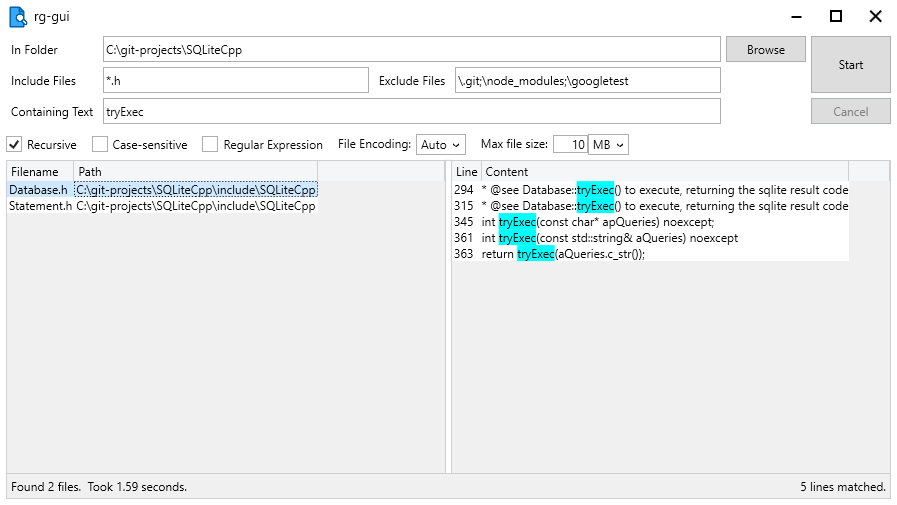
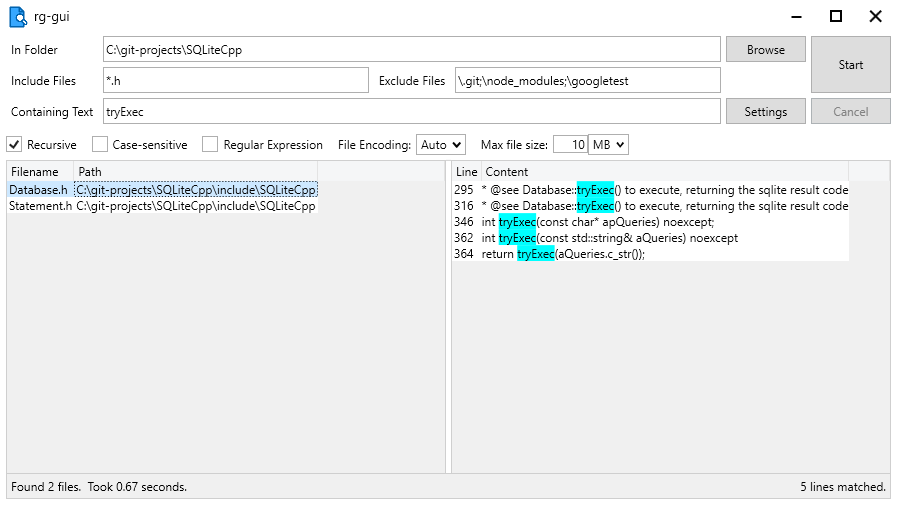
Remove RipGrepPath from configuration
rg.exe is now bundled in release .zip file.  Remove references to
editing configuration file; document the new settings window.  Update
screenshots.

diff --git a/rg-gui/MainWindow.xaml.cs b/rg-gui/MainWindow.xaml.cs
@@ -122,7 +122,7 @@ namespace rg_gui
                 cmbEncoding.SelectedIndex = 0;
             }
 
-            txtMaxFileSize.Text = (int.TryParse(config.AppSettings.Settings["MaxFileSize"].Value, out var maxFileSize) ? maxFileSize : DEFAULT_MAXFILESIZE).ToString();
+            txtMaxFileSize.Text = (int.TryParse(config.AppSettings.Settings["MaxFileSize"]?.Value, out var maxFileSize) ? maxFileSize : DEFAULT_MAXFILESIZE).ToString();
             var maxFileSizeUnit = cmbFileSizeUnit.FindName(config.AppSettings.Settings["MaxFileSizeUnit"]?.Value ?? DEFAULT_MAXFILESIZEUNIT);
             if (maxFileSizeUnit != null)
             {
@@ -136,7 +136,14 @@ namespace rg_gui
             m_currentTheme = Enum.TryParse<ThemeType>(config.AppSettings.Settings["Theme"]?.Value, out var themeName) ? themeName : DEFAULT_THEME;
             ThemesController.SetTheme(m_currentTheme);
 
-            m_ripGrepWrapper = new RipGrepWrapper(config.AppSettings.Settings["RipGrepPath"]?.Value ?? throw new Exception("RipGrepPath not set."));
+            var ripgrepPath = Path.Combine(Path.GetDirectoryName(Environment.ProcessPath) ?? string.Empty, "rg.exe");
+            if (!File.Exists(ripgrepPath))
+            {
+                MessageBox.Show("rg.exe not found in installation path.", "Error");
+                throw new Exception("rg.exe not found in installation path.");
+            }
+
+            m_ripGrepWrapper = new RipGrepWrapper(ripgrepPath);
 
             m_maxSearchTerms = int.TryParse(config.AppSettings.Settings["MaxSearchTerms"]?.Value, out var maxSearchTerms) ? maxSearchTerms : DEFAULT_MAXSEARCHTERMS;
 

diff --git a/README.md b/README.md
@@ -7,17 +7,11 @@
 
 ## Installation
 
-RipGrep must be installed on your computer.  You can download it from [here](https://github.com/BurntSushi/ripgrep/releases).  Currently, version 13.0.0 is supported.  Unzip it to a convenient location such as `C:\ripgrep-13.0.0-x86_64-pc-windows-msvc`.
-
 Download the latest release of rg-gui from the [Releases page](https://github.com/kcowolf/rg-gui/releases).  Unzip it to a convenient location such as `C:\rg-gui`.
 
-In rg-gui.dll.config, specify the location of the RipGrep executable.
+The RipGrep executable `rg.exe` is included in the rg-gui release.  It needs to be in the same folder as `rg-gui.exe`.
 
-```xml
-<add key="RipGrepPath" value="C:\ripgrep-13.0.0-x86_64-pc-windows-msvc\rg.exe"/>
-```
-
-The **.NET Desktop Runtime 6** must also be installed installed.  You can download it from here: https://dotnet.microsoft.com/en-us/download/dotnet/6.0
+The **.NET Desktop Runtime 6** must also be installed.  You can download it from here: https://dotnet.microsoft.com/en-us/download/dotnet/6.0
 
 ## Usage
 
@@ -27,24 +21,19 @@ Include Files and Exclude Files can be path or file names and can include wildca
 
 Finally, type the text you would like to search for in the "Containing Text" box.  Press the Start button to start your search.
 
+## Settings
 
-## Themes
+### Theme
 
-Theme can be selected in rg-gui.dll.config.  Valid values are "Light" and "Dark".
+Color theme for the app.  Light and Dark themes are included.
 
-```xml
-<add key="Theme" value="Light"/>
-```
+### Maximum Search Terms
 
+Maximum number of terms (a word or quoted string) which can be typed in the "Containing Text" box.  This number determines the maximum number of processes rg-gui will run while searching.
 
-## Multi-color Highlighting
+### Multi-color Highlighting
 
-If a search contains multiple terms, the results for each term can be highlighted in a separate color (up to 4 colors).  If this is disabled, results for all terms will be highlighted using the same color.  Using multiple highlight colors can be enabled or disabled in rg-gui.dll.config.  Valid values are "True" and "False".
-
-```xml
-<add key="MultipleHighlightColors" value="True"/>
-```
-
+If a search contains multiple terms, the results for each term can be highlighted in a separate color (up to 4 colors).  If this is disabled, results for all terms will be highlighted using the same color.
 
 ## Credits
 
